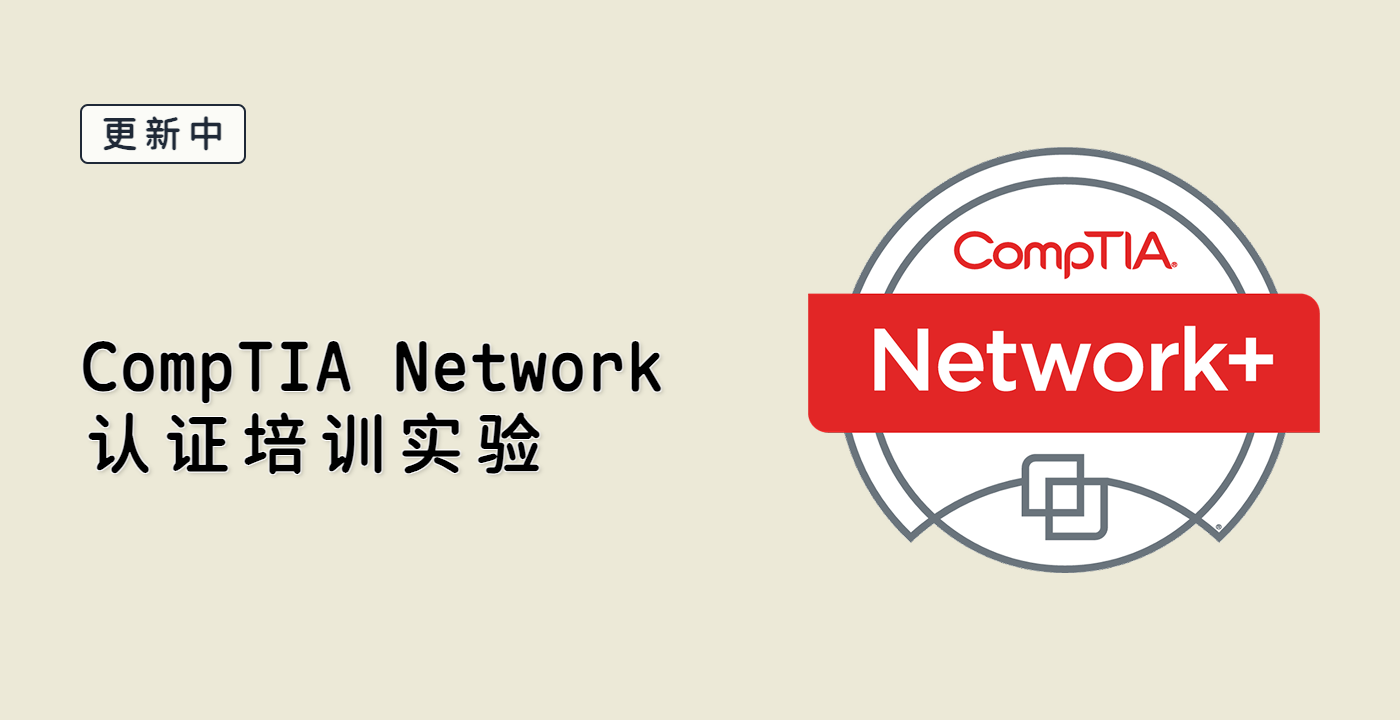
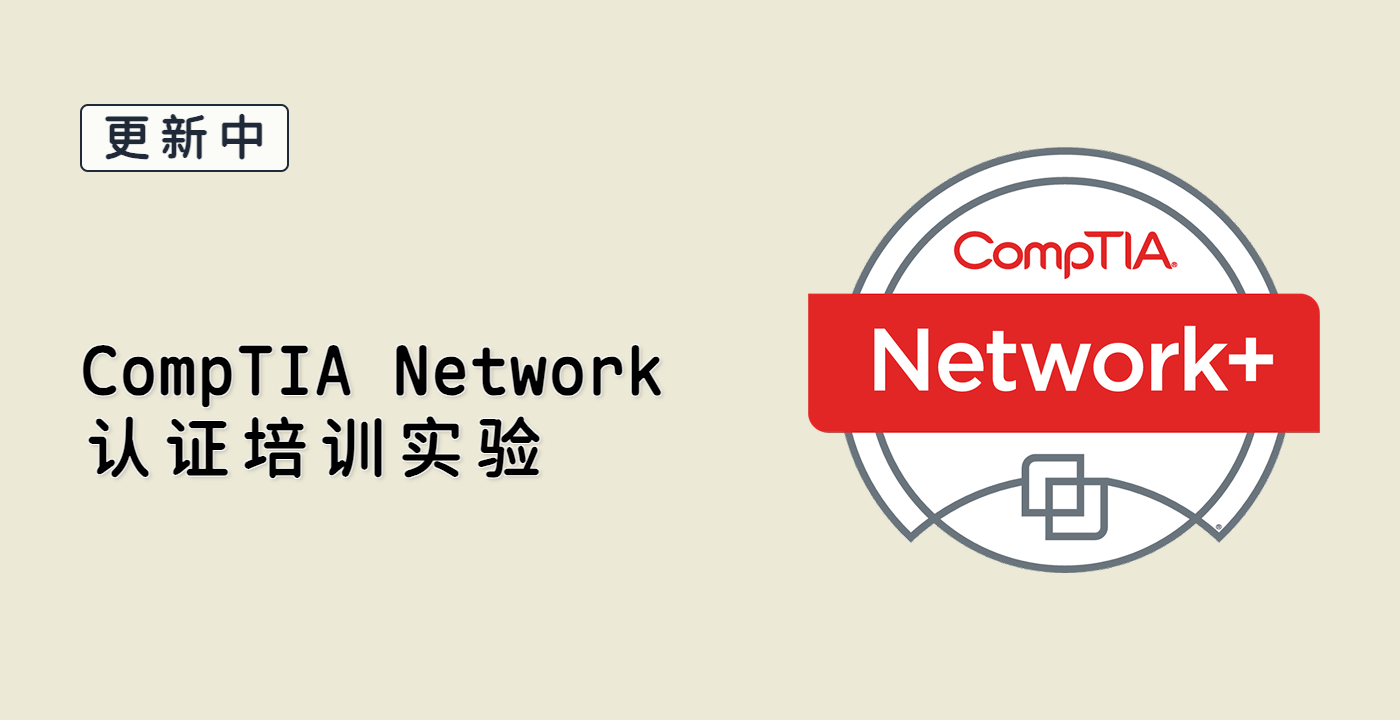
chore: update font size of updating badge in preview.html and refresh multiple course cover images for CompTIA training labs

Changed region(s): [[0.0614, 0.4583, 0.3993, 0.6722], [0.0614, 0.1222, 0.215, 0.2444], [0.2764, 0.4583, 0.4914, 0.55]]

diff --git a/preview.html b/preview.html
@@ -29,7 +29,7 @@
       <div class="w-[600px] h-[512px] flex flex-col justify-start gap-4 overflow-hidden">
         <!-- Updating 标识矩形块 - 放在课程标题上方 -->
         <div id="updating-badge" class="hidden mb-4">
-          <div class="inline-block px-4 py-2 rounded-lg text-gray-800 font-black text-4xl border-2 border-gray-800"
+          <div class="inline-block px-4 py-2 rounded-lg text-gray-800 font-black text-5xl border-2 border-gray-800"
             style="background-color: rgba(255, 255, 255, 0.8); font-family: 'Maple Mono NF CN', monospace;">
           </div>
         </div>
